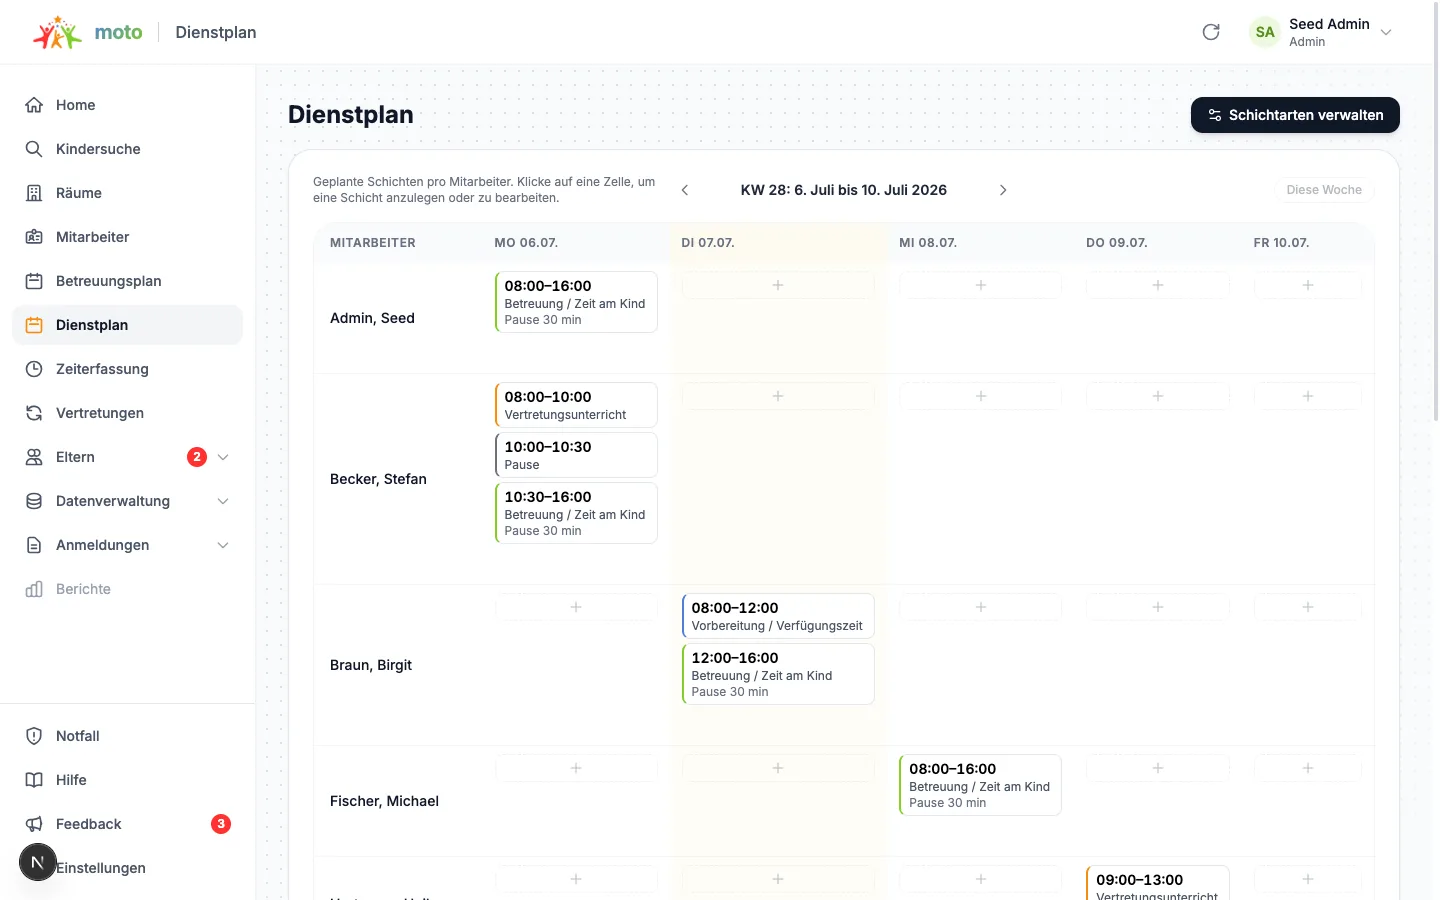
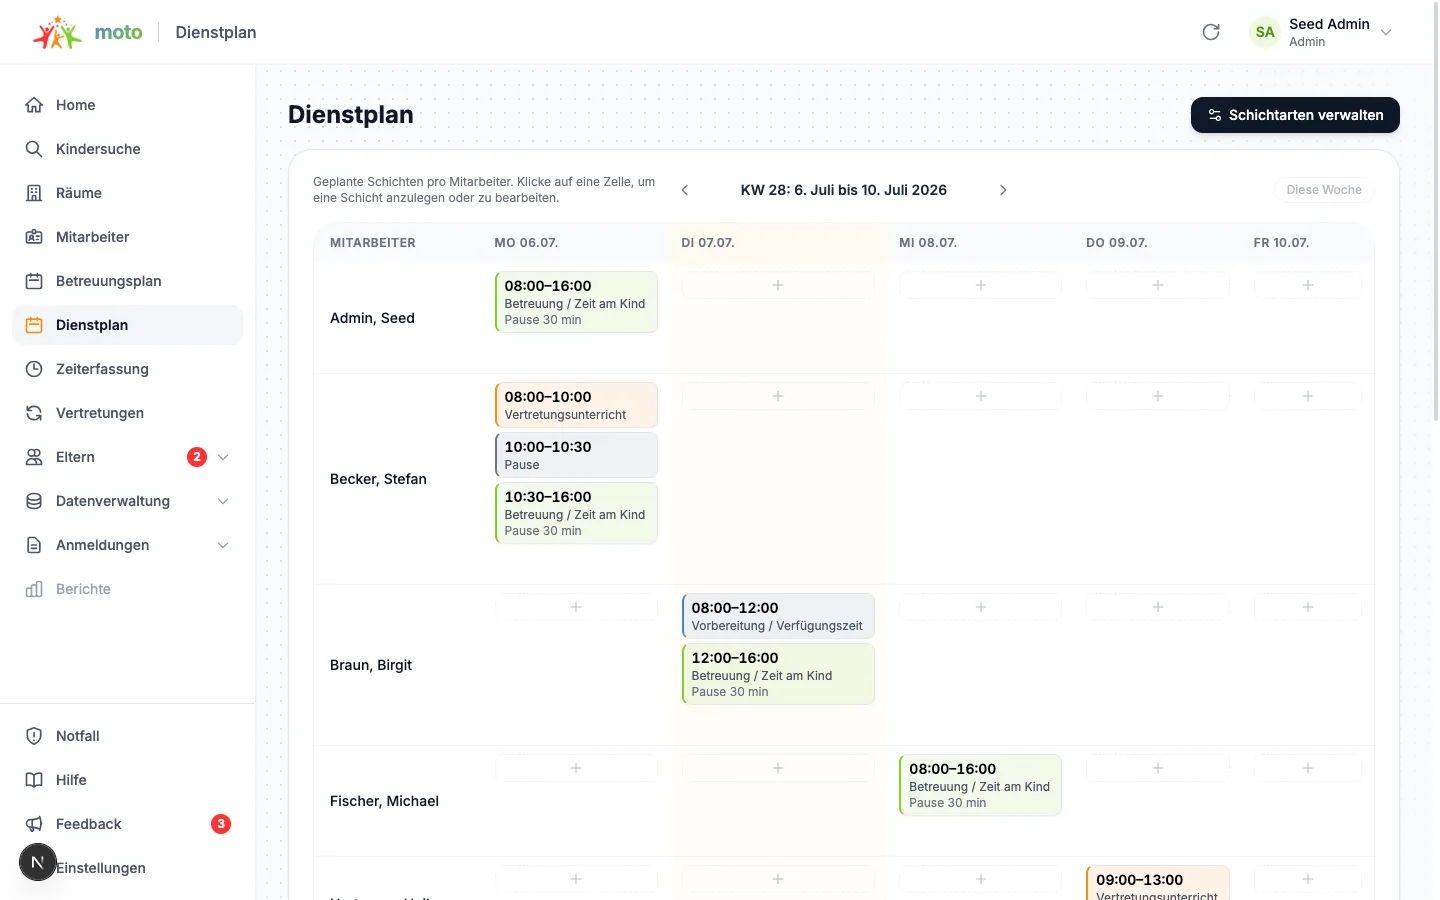
feat(schedule): tint Dienstplan shift slots by their shift-type color
Fill each planned shift with a light (~10%) tint of its shift type's color in
addition to the coloured left border, so the task is recognisable at a glance
across the week without reading the label. Dark text stays legible on every
brand-colour tint; untyped shifts keep the neutral white slot. Help screenshot
updated to match.

diff --git a/frontend/src/components/staff/dienstplan-week-grid.tsx b/frontend/src/components/staff/dienstplan-week-grid.tsx
@@ -113,8 +113,13 @@ export function DienstplanWeekGrid({
                               style={{
                                 borderLeftColor:
                                   type?.color ?? UNTYPED_SHIFT_COLOR,
+                                // Light tint of the shift-type color as the slot
+                                // background (~10% opacity via 8-digit hex).
+                                backgroundColor: type
+                                  ? `${type.color}1A`
+                                  : undefined,
                               }}
-                              className="w-full rounded-md border border-l-2 border-gray-200 bg-white px-2 py-1 text-left transition-colors hover:bg-gray-50"
+                              className="w-full rounded-md border border-l-2 border-gray-200 bg-white px-2 py-1 text-left transition-shadow hover:shadow-sm"
                             >
                               <span className="font-semibold tabular-nums">
                                 {formatShiftLabel(shift)}
